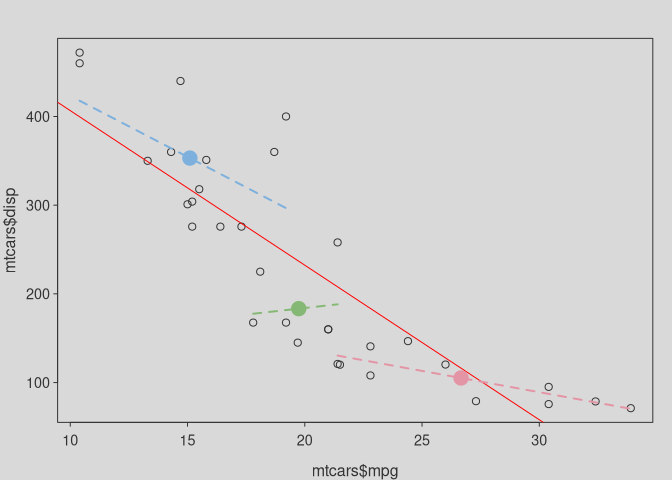
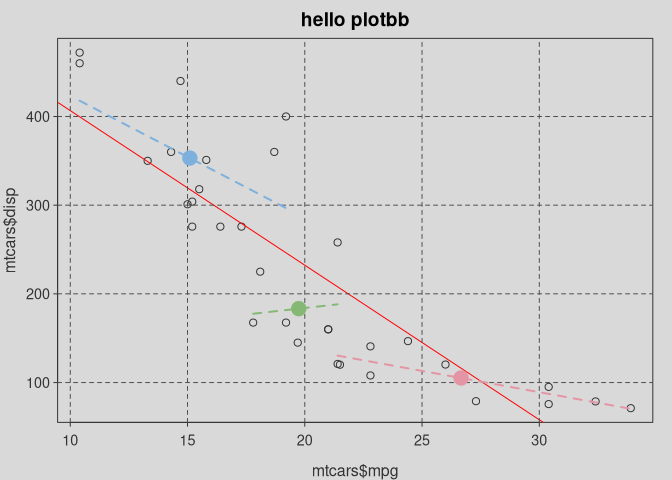
update example

diff --git a/README.md b/README.md
@@ -132,7 +132,9 @@ as.bbplot(f) +
    bb_theme_expand() +
    bb_theme_grey() +
    bb_lm(bb_aes(mpg, disp, group=cyl, col=factor(cyl)), data=mtcars, lwd=2, lty='dashed') +
-   bb_point(bb_aes(xm, ym, col=factor(cyl)), data=d, pch=19, cex=2)
+   bb_point(bb_aes(xm, ym, col=factor(cyl)), data=d, pch=19, cex=2) +
+   bb_title("hello plotbb") +
+   bb_grid(col='grey30', lty='dashed') ## grid lines were plotted as background by default
 ```
 
 ![](README_files/figure-gfm/base-1.png)<!-- -->
